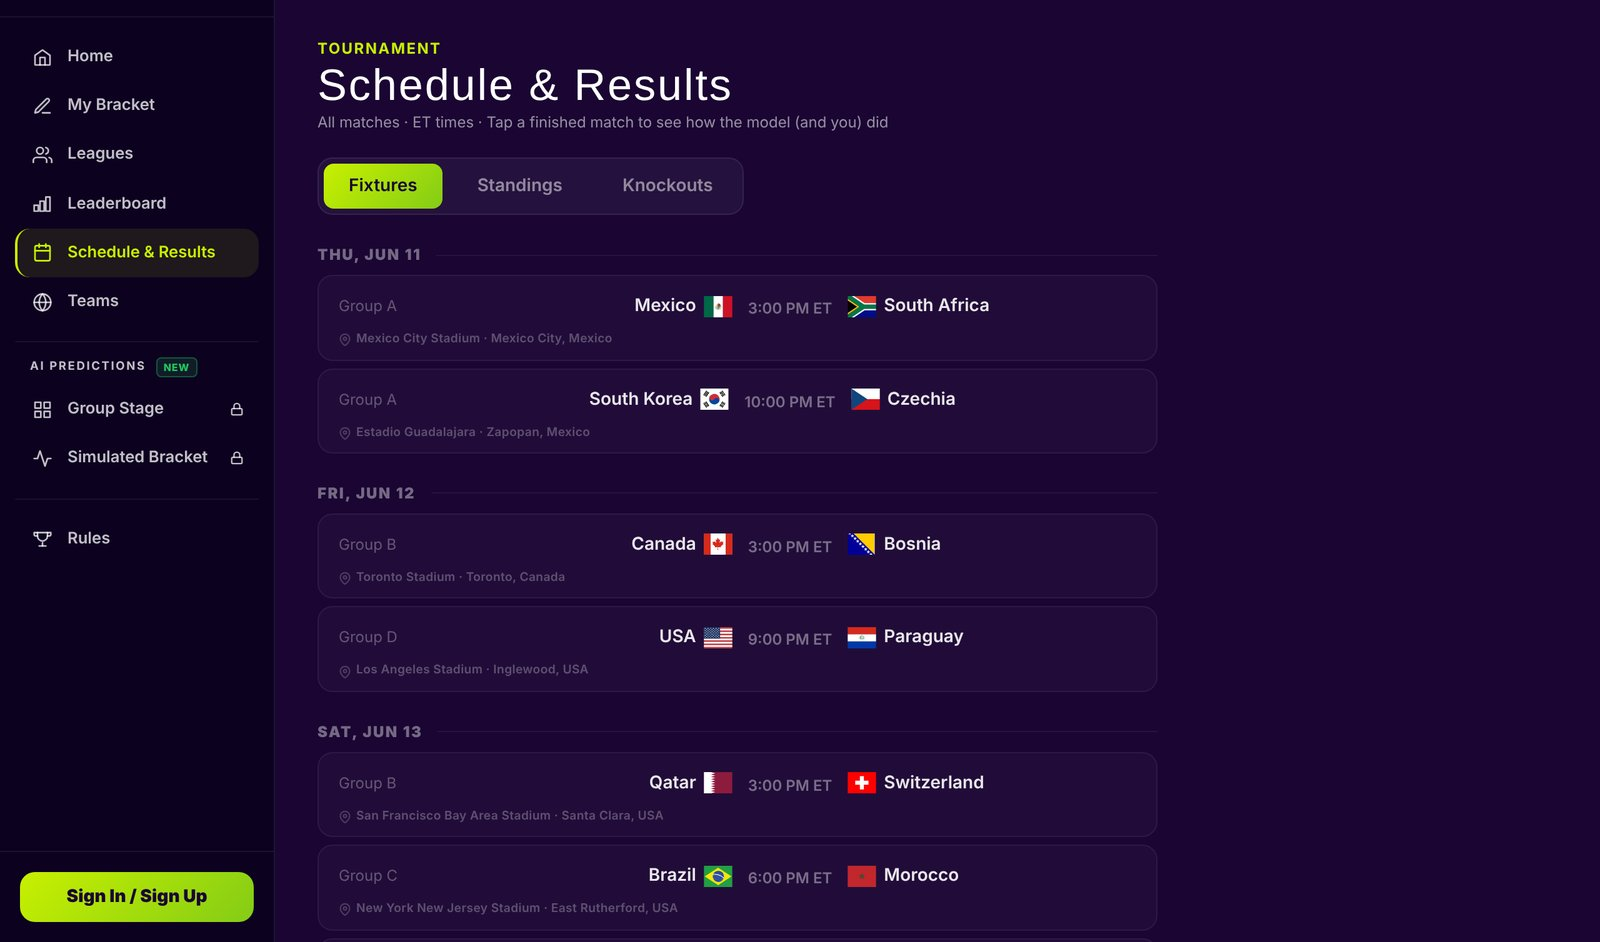
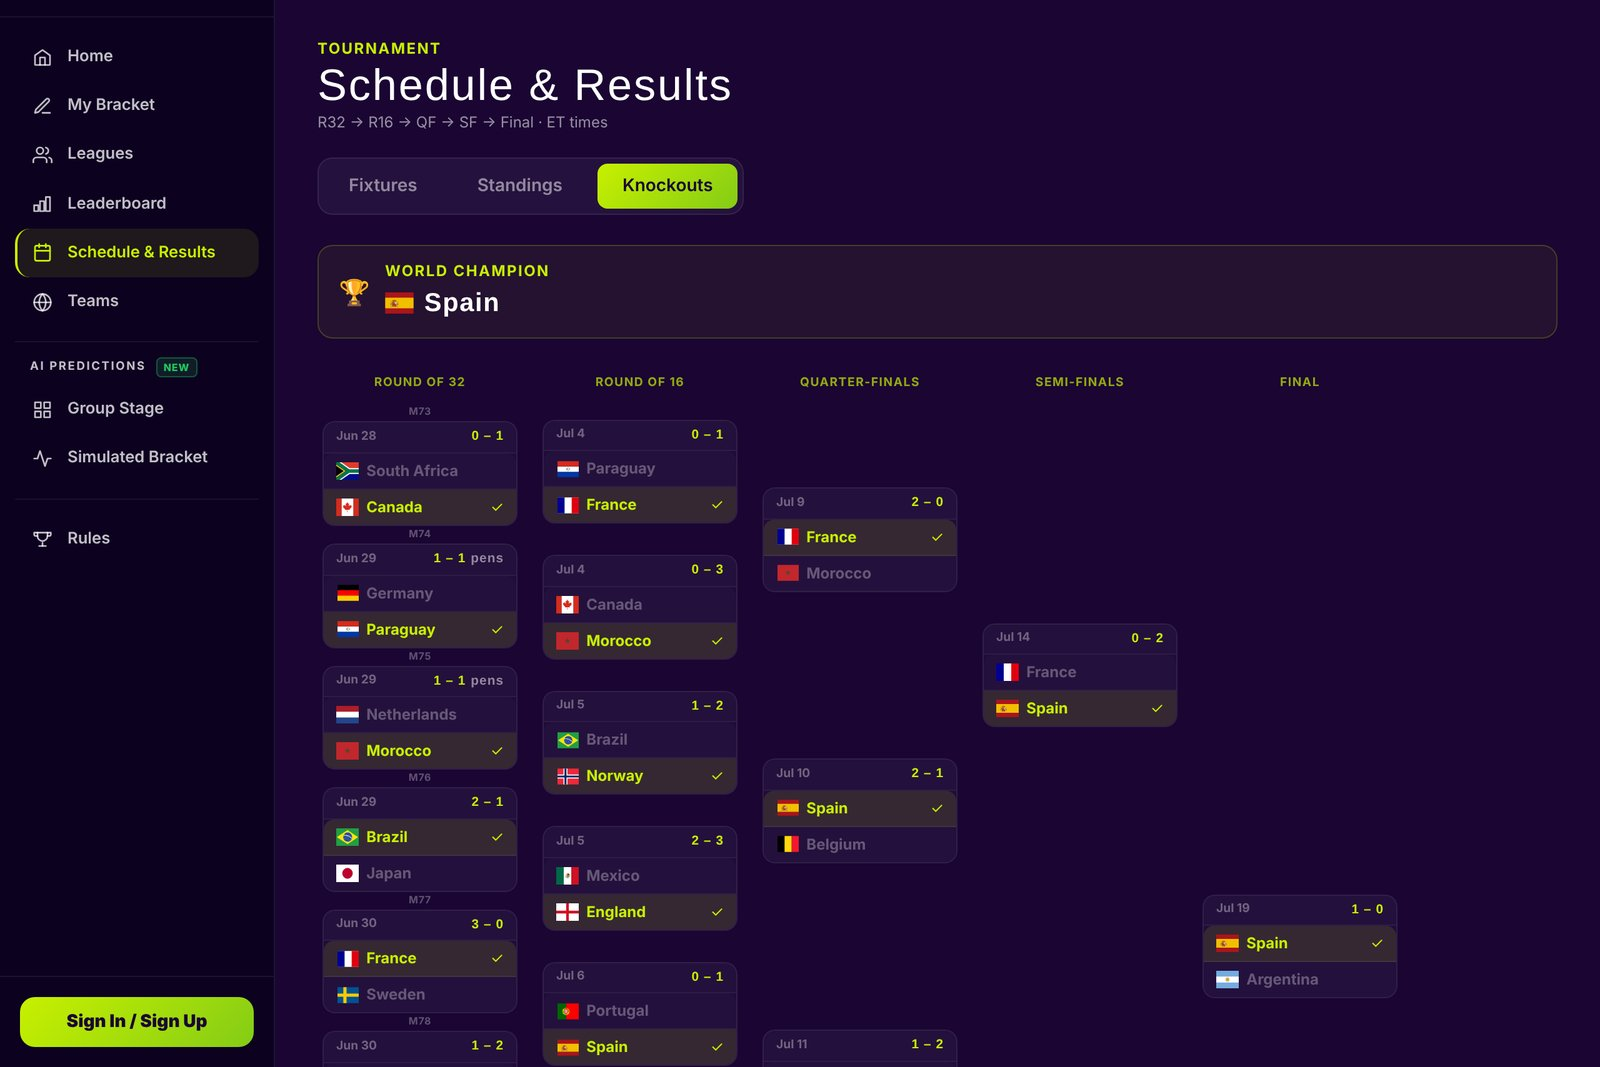
Show the completed knockout bracket
Claude-Session: https://claude.ai/code/session_01GNRb66pQy7tQpVGCksQ7tX

diff --git a/index.html b/index.html
@@ -194,7 +194,7 @@
           </div>
         </div>
         <figure>
-          <img src="assets/world-cup-predictor.jpg" width="1600" height="942" alt="The predictor's schedule page listing group-stage fixtures with team flags, kickoff times and venues.">
+          <img src="assets/world-cup-predictor.jpg" width="1600" height="1067" alt="The predictor's knockout bracket, from the Round of 32 to Spain winning the final.">
         </figure>
       </article>
 
